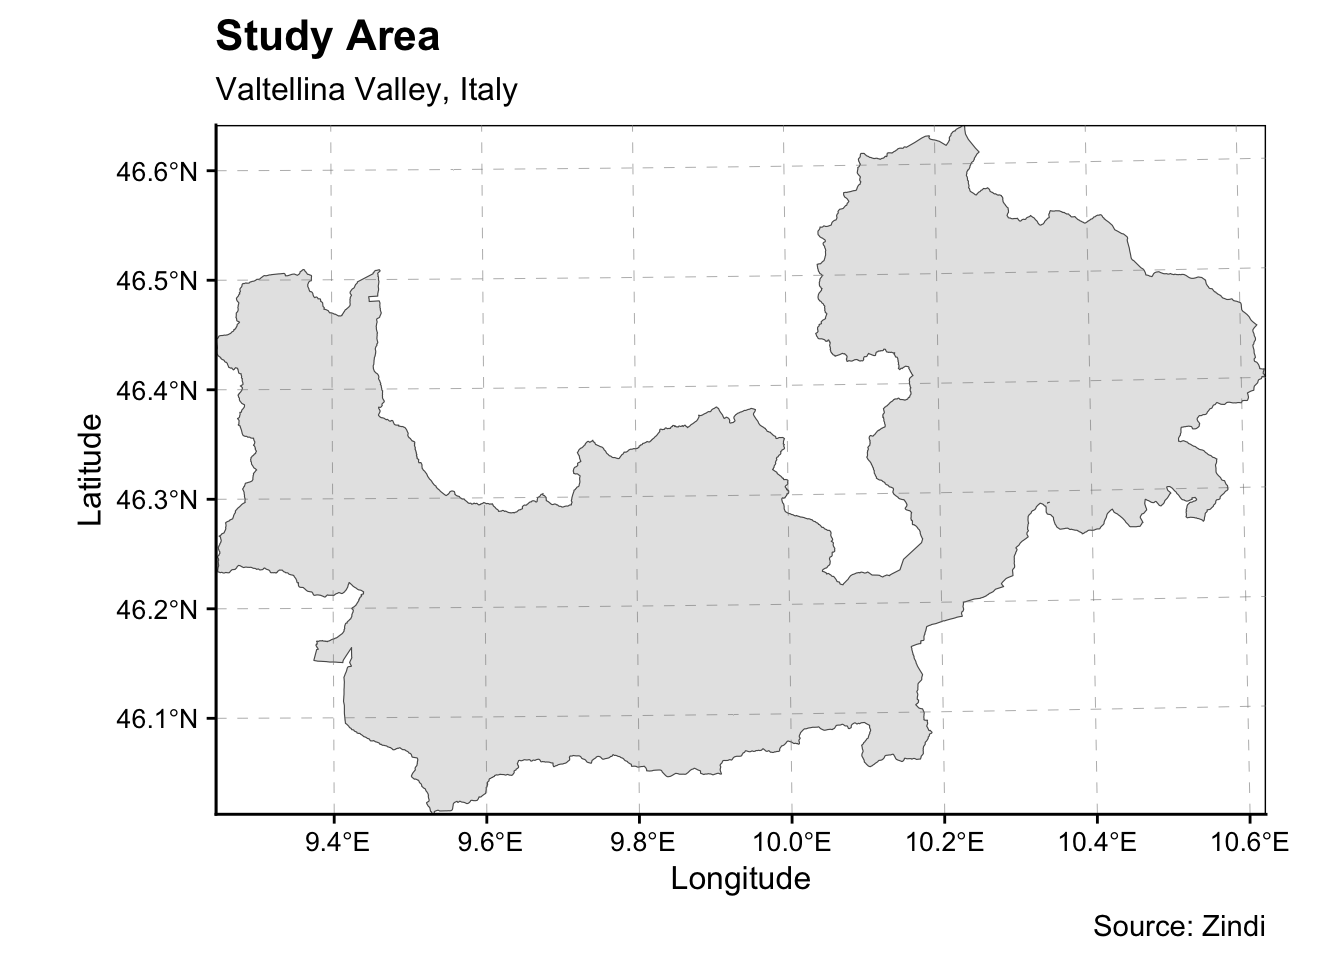
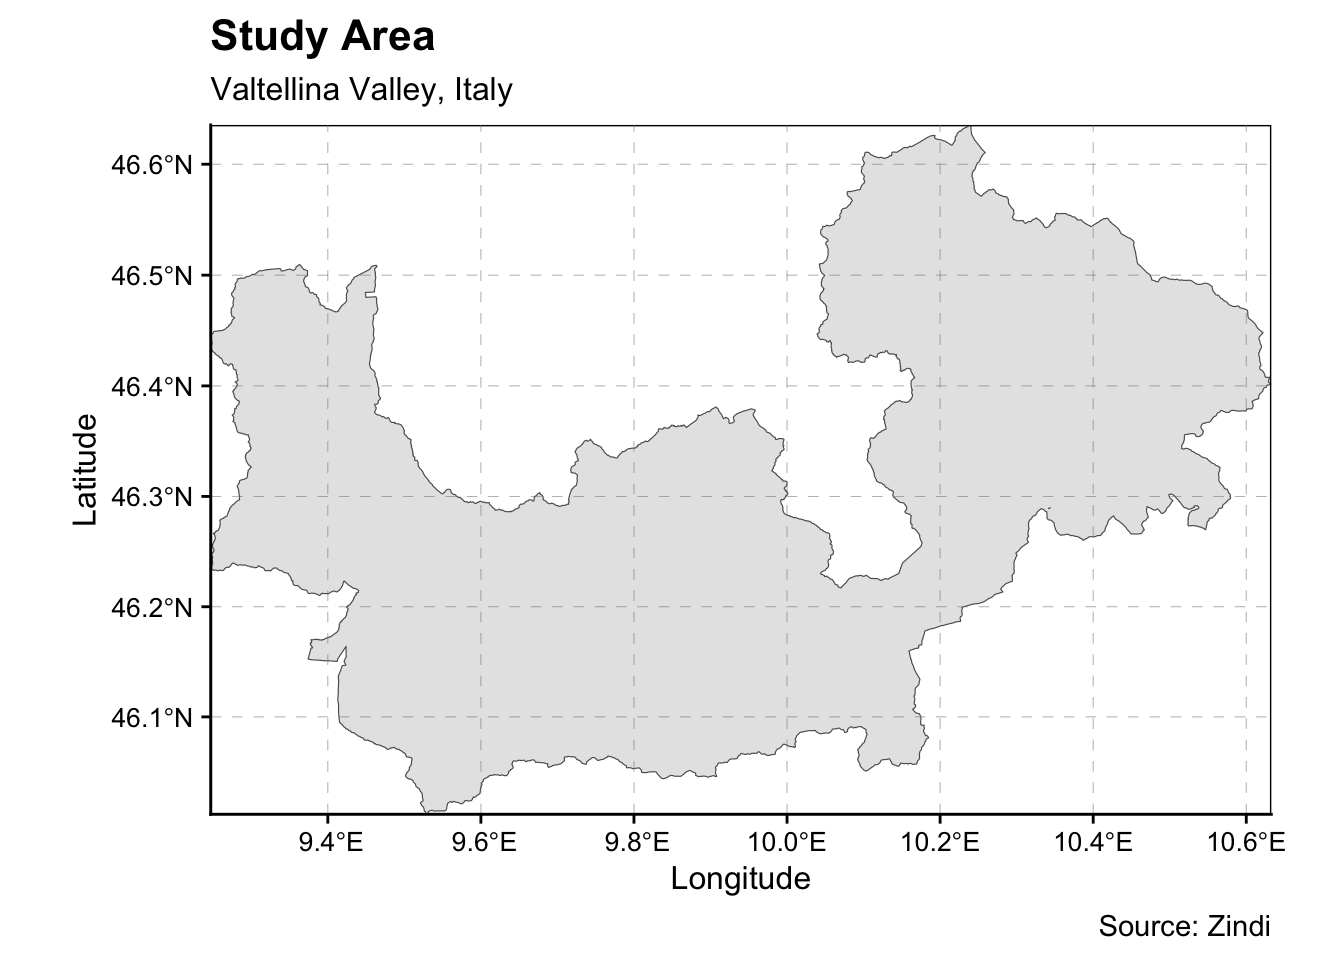
deconflicted

diff --git a/_site/project.html b/_site/project.html
@@ -200,7 +200,7 @@ pre > code.sourceCode > span > a:first-child::before { text-decoration: underlin
     <div>
     <div class="quarto-title-meta-heading">Modified</div>
     <div class="quarto-title-meta-contents">
-      <p class="date-modified">January 10, 2024</p>
+      <p class="date-modified">January 11, 2024</p>
     </div>
   </div>
     
@@ -279,24 +279,26 @@ pre > code.sourceCode > span > a:first-child::before { text-decoration: underlin
 </section>
 <p>Before creating thematic maps for each landslide parameter, a map is created to plot the study area of this project, Valtellina Valley in Italy using <code>ggplot</code> package.</p>
 <div class="cell">
-<div class="sourceCode cell-code" id="cb4"><pre class="sourceCode r code-with-copy"><code class="sourceCode r"><span id="cb4-1"><a href="#cb4-1" aria-hidden="true" tabindex="-1"></a><span class="fu">ggplot</span>(<span class="at">data =</span> valtellina) <span class="sc">+</span></span>
-<span id="cb4-2"><a href="#cb4-2" aria-hidden="true" tabindex="-1"></a>  <span class="fu">geom_sf</span>()<span class="sc">+</span></span>
-<span id="cb4-3"><a href="#cb4-3" aria-hidden="true" tabindex="-1"></a>  <span class="fu">coord_sf</span>(<span class="at">expand=</span><span class="cn">FALSE</span>)<span class="sc">+</span></span>
-<span id="cb4-4"><a href="#cb4-4" aria-hidden="true" tabindex="-1"></a>  <span class="fu">labs</span>(<span class="at">x=</span><span class="st">'Longitude'</span>,<span class="at">y=</span><span class="st">'Latitude'</span>,</span>
-<span id="cb4-5"><a href="#cb4-5" aria-hidden="true" tabindex="-1"></a>       <span class="at">title=</span><span class="st">"Study Area"</span>,</span>
-<span id="cb4-6"><a href="#cb4-6" aria-hidden="true" tabindex="-1"></a>       <span class="at">subtitle=</span><span class="st">'Valtellina Valley, Italy'</span>,</span>
-<span id="cb4-7"><a href="#cb4-7" aria-hidden="true" tabindex="-1"></a>       <span class="at">caption=</span><span class="st">'Source: Zindi'</span>) <span class="sc">+</span></span>
-<span id="cb4-8"><a href="#cb4-8" aria-hidden="true" tabindex="-1"></a>  cowplot<span class="sc">::</span><span class="fu">theme_cowplot</span>()<span class="sc">+</span></span>
-<span id="cb4-9"><a href="#cb4-9" aria-hidden="true" tabindex="-1"></a>  <span class="fu">theme</span>(<span class="at">panel.grid.major =</span> <span class="fu">element_line</span>(<span class="at">color =</span> <span class="fu">gray</span>(.<span class="dv">5</span>),</span>
-<span id="cb4-10"><a href="#cb4-10" aria-hidden="true" tabindex="-1"></a>                                        <span class="at">linetype =</span> <span class="st">'dashed'</span>,</span>
-<span id="cb4-11"><a href="#cb4-11" aria-hidden="true" tabindex="-1"></a>                                        <span class="at">linewidth =</span> <span class="fl">0.1</span>),</span>
-<span id="cb4-12"><a href="#cb4-12" aria-hidden="true" tabindex="-1"></a>        <span class="at">panel.grid.minor =</span> <span class="fu">element_blank</span>(),</span>
-<span id="cb4-13"><a href="#cb4-13" aria-hidden="true" tabindex="-1"></a>        <span class="at">panel.background =</span> <span class="fu">element_rect</span>(<span class="at">fill=</span><span class="cn">NA</span>,<span class="at">color =</span> <span class="st">'black'</span>),</span>
-<span id="cb4-14"><a href="#cb4-14" aria-hidden="true" tabindex="-1"></a>        <span class="at">panel.ontop =</span> <span class="cn">TRUE</span>,</span>
-<span id="cb4-15"><a href="#cb4-15" aria-hidden="true" tabindex="-1"></a>        <span class="at">axis.title.x =</span> <span class="fu">element_text</span>(<span class="at">size =</span> <span class="dv">12</span>), </span>
-<span id="cb4-16"><a href="#cb4-16" aria-hidden="true" tabindex="-1"></a>        <span class="at">axis.title.y =</span> <span class="fu">element_text</span>(<span class="at">size =</span> <span class="dv">12</span>),</span>
-<span id="cb4-17"><a href="#cb4-17" aria-hidden="true" tabindex="-1"></a>        <span class="at">axis.text.x =</span> <span class="fu">element_text</span>(<span class="at">size =</span> <span class="dv">10</span>),</span>
-<span id="cb4-18"><a href="#cb4-18" aria-hidden="true" tabindex="-1"></a>        <span class="at">axis.text.y =</span> <span class="fu">element_text</span>(<span class="at">size =</span> <span class="dv">10</span>))</span></code><button title="Copy to Clipboard" class="code-copy-button"><i class="bi"></i></button></pre></div>
+<div class="sourceCode cell-code" id="cb4"><pre class="sourceCode r code-with-copy"><code class="sourceCode r"><span id="cb4-1"><a href="#cb4-1" aria-hidden="true" tabindex="-1"></a>valtellina_transformed <span class="ot">&lt;-</span> <span class="fu">st_transform</span>(valtellina, <span class="at">crs =</span> <span class="st">"+proj=merc"</span>)</span>
+<span id="cb4-2"><a href="#cb4-2" aria-hidden="true" tabindex="-1"></a></span>
+<span id="cb4-3"><a href="#cb4-3" aria-hidden="true" tabindex="-1"></a><span class="fu">ggplot</span>(<span class="at">data =</span> valtellina_transformed) <span class="sc">+</span></span>
+<span id="cb4-4"><a href="#cb4-4" aria-hidden="true" tabindex="-1"></a>  <span class="fu">geom_sf</span>()<span class="sc">+</span></span>
+<span id="cb4-5"><a href="#cb4-5" aria-hidden="true" tabindex="-1"></a>  <span class="fu">coord_sf</span>(<span class="at">expand=</span><span class="cn">FALSE</span>)<span class="sc">+</span></span>
+<span id="cb4-6"><a href="#cb4-6" aria-hidden="true" tabindex="-1"></a>  <span class="fu">labs</span>(<span class="at">x=</span><span class="st">'Longitude'</span>,<span class="at">y=</span><span class="st">'Latitude'</span>,</span>
+<span id="cb4-7"><a href="#cb4-7" aria-hidden="true" tabindex="-1"></a>       <span class="at">title=</span><span class="st">"Study Area"</span>,</span>
+<span id="cb4-8"><a href="#cb4-8" aria-hidden="true" tabindex="-1"></a>       <span class="at">subtitle=</span><span class="st">'Valtellina Valley, Italy'</span>,</span>
+<span id="cb4-9"><a href="#cb4-9" aria-hidden="true" tabindex="-1"></a>       <span class="at">caption=</span><span class="st">'Source: Zindi'</span>) <span class="sc">+</span></span>
+<span id="cb4-10"><a href="#cb4-10" aria-hidden="true" tabindex="-1"></a>  cowplot<span class="sc">::</span><span class="fu">theme_cowplot</span>()<span class="sc">+</span></span>
+<span id="cb4-11"><a href="#cb4-11" aria-hidden="true" tabindex="-1"></a>  <span class="fu">theme</span>(<span class="at">panel.grid.major =</span> <span class="fu">element_line</span>(<span class="at">color =</span> <span class="fu">gray</span>(.<span class="dv">5</span>),</span>
+<span id="cb4-12"><a href="#cb4-12" aria-hidden="true" tabindex="-1"></a>                                        <span class="at">linetype =</span> <span class="st">'dashed'</span>,</span>
+<span id="cb4-13"><a href="#cb4-13" aria-hidden="true" tabindex="-1"></a>                                        <span class="at">linewidth =</span> <span class="fl">0.1</span>),</span>
+<span id="cb4-14"><a href="#cb4-14" aria-hidden="true" tabindex="-1"></a>        <span class="at">panel.grid.minor =</span> <span class="fu">element_blank</span>(),</span>
+<span id="cb4-15"><a href="#cb4-15" aria-hidden="true" tabindex="-1"></a>        <span class="at">panel.background =</span> <span class="fu">element_rect</span>(<span class="at">fill=</span><span class="cn">NA</span>,<span class="at">color =</span> <span class="st">'black'</span>),</span>
+<span id="cb4-16"><a href="#cb4-16" aria-hidden="true" tabindex="-1"></a>        <span class="at">panel.ontop =</span> <span class="cn">TRUE</span>,</span>
+<span id="cb4-17"><a href="#cb4-17" aria-hidden="true" tabindex="-1"></a>        <span class="at">axis.title.x =</span> <span class="fu">element_text</span>(<span class="at">size =</span> <span class="dv">12</span>), </span>
+<span id="cb4-18"><a href="#cb4-18" aria-hidden="true" tabindex="-1"></a>        <span class="at">axis.title.y =</span> <span class="fu">element_text</span>(<span class="at">size =</span> <span class="dv">12</span>),</span>
+<span id="cb4-19"><a href="#cb4-19" aria-hidden="true" tabindex="-1"></a>        <span class="at">axis.text.x =</span> <span class="fu">element_text</span>(<span class="at">size =</span> <span class="dv">10</span>),</span>
+<span id="cb4-20"><a href="#cb4-20" aria-hidden="true" tabindex="-1"></a>        <span class="at">axis.text.y =</span> <span class="fu">element_text</span>(<span class="at">size =</span> <span class="dv">10</span>))</span></code><button title="Copy to Clipboard" class="code-copy-button"><i class="bi"></i></button></pre></div>
 <div class="cell-output-display">
 <p><img src="project_files/figure-html/unnamed-chunk-4-1.png" class="img-fluid" width="672"></p>
 </div>
@@ -306,8 +308,7 @@ pre > code.sourceCode > span > a:first-child::before { text-decoration: underlin
 </section>
 <p>Map projection is an important property of a geospatial data. In order to perform geoprocessing using geospatial data, we need to ensure that data are projected using the appropriate and standard coordinate system. For this project, we use EPSG:32632 (WGS 84 / UTM zone 32N) for all the datasets.</p>
 <div class="cell" data-code_folding="false">
-<div class="sourceCode cell-code" id="cb5"><pre class="sourceCode r code-with-copy"><code class="sourceCode r"><span id="cb5-1"><a href="#cb5-1" aria-hidden="true" tabindex="-1"></a>valtellina <span class="ot">&lt;-</span> <span class="fu">st_set_crs</span>(valtellina,<span class="dv">32632</span>)</span>
-<span id="cb5-2"><a href="#cb5-2" aria-hidden="true" tabindex="-1"></a>precipitation <span class="ot">&lt;-</span> <span class="fu">projectRaster</span>(precipitation, <span class="at">crs =</span> <span class="fu">crs</span>(valtellina))</span></code><button title="Copy to Clipboard" class="code-copy-button"><i class="bi"></i></button></pre></div>
+<div class="sourceCode cell-code" id="cb5"><pre class="sourceCode r code-with-copy"><code class="sourceCode r"><span id="cb5-1"><a href="#cb5-1" aria-hidden="true" tabindex="-1"></a>precipitation <span class="ot">&lt;-</span> <span class="fu">projectRaster</span>(precipitation, <span class="at">crs =</span> <span class="st">"+proj=merc"</span>)</span></code><button title="Copy to Clipboard" class="code-copy-button"><i class="bi"></i></button></pre></div>
 </div>
 <section id="create-database" class="level2" style="color: #603494;">
 <h2 style="color: #603494;" class="anchored" data-anchor-id="create-database">5.0 Create Database</h2>
@@ -317,13 +318,13 @@ pre > code.sourceCode > span > a:first-child::before { text-decoration: underlin
 <div class="sourceCode cell-code" id="cb6"><pre class="sourceCode r code-with-copy"><code class="sourceCode r"><span id="cb6-1"><a href="#cb6-1" aria-hidden="true" tabindex="-1"></a>precipitation_df <span class="ot">&lt;-</span> <span class="fu">as.data.frame</span>(precipitation,<span class="at">xy=</span><span class="cn">TRUE</span>)<span class="sc">%&gt;%</span><span class="fu">drop_na</span>()</span>
 <span id="cb6-2"><a href="#cb6-2" aria-hidden="true" tabindex="-1"></a><span class="fu">tail</span>(precipitation_df)</span></code><button title="Copy to Clipboard" class="code-copy-button"><i class="bi"></i></button></pre></div>
 <div class="cell-output cell-output-stdout">
-<pre><code>               x       y avgprecipitation_mm
-4737030 540976.3 5095477           0.2868658
-4737031 541002.7 5095477           0.2868658
-4737032 541029.1 5095477           0.2868658
-4737033 541055.5 5095477           0.2868658
-4737034 541081.9 5095477           0.2868658
-4737035 541108.3 5095477           0.2868658</code></pre>
+<pre><code>              x       y avgprecipitation_mm
+4726314 1060805 5751444           0.2868658
+4726315 1060843 5751444           0.2868658
+4726316 1060881 5751444           0.2868658
+4726317 1060919 5751444           0.2868658
+4726318 1060958 5751444           0.2868658
+4726319 1060996 5751444           0.2868658</code></pre>
 </div>
 <div class="sourceCode cell-code" id="cb8"><pre class="sourceCode r code-with-copy"><code class="sourceCode r"><span id="cb8-1"><a href="#cb8-1" aria-hidden="true" tabindex="-1"></a>elevation_df <span class="ot">&lt;-</span> <span class="fu">as.data.frame</span>(elevation,<span class="at">xy=</span><span class="cn">TRUE</span>)<span class="sc">%&gt;%</span><span class="fu">drop_na</span>()</span>
 <span id="cb8-2"><a href="#cb8-2" aria-hidden="true" tabindex="-1"></a>twi_df <span class="ot">&lt;-</span> <span class="fu">as.data.frame</span>(twi,<span class="at">xy=</span><span class="cn">TRUE</span>)<span class="sc">%&gt;%</span><span class="fu">drop_na</span>()</span>
@@ -344,7 +345,7 @@ pre > code.sourceCode > span > a:first-child::before { text-decoration: underlin
 <div class="cell" data-code_folding="false">
 <div class="sourceCode cell-code" id="cb9"><pre class="sourceCode r code-with-copy"><code class="sourceCode r"><span id="cb9-1"><a href="#cb9-1" aria-hidden="true" tabindex="-1"></a><span class="fu">ggplot</span>()<span class="sc">+</span></span>
 <span id="cb9-2"><a href="#cb9-2" aria-hidden="true" tabindex="-1"></a>  <span class="fu">geom_raster</span>(<span class="fu">aes</span>(<span class="at">x=</span>x,<span class="at">y=</span>y,<span class="at">fill=</span>avgprecipitation_mm),<span class="at">data=</span>precipitation_df)<span class="sc">+</span></span>
-<span id="cb9-3"><a href="#cb9-3" aria-hidden="true" tabindex="-1"></a>  <span class="fu">geom_sf</span>(<span class="at">fill=</span><span class="st">'transparent'</span>,<span class="at">data=</span>valtellina)<span class="sc">+</span></span>
+<span id="cb9-3"><a href="#cb9-3" aria-hidden="true" tabindex="-1"></a>  <span class="fu">geom_sf</span>(<span class="at">fill=</span><span class="st">'transparent'</span>,<span class="at">data=</span>valtellina_transformed)<span class="sc">+</span></span>
 <span id="cb9-4"><a href="#cb9-4" aria-hidden="true" tabindex="-1"></a>  <span class="fu">scale_fill_gradientn</span>(<span class="st">'avg precipitation </span><span class="sc">\n</span><span class="st">(mm)'</span>, <span class="at">colours=</span><span class="fu">c</span>(<span class="st">"#eff635"</span>,<span class="st">"#e4c838"</span>,<span class="st">"#99bf3e"</span>,<span class="st">"#61adab"</span>,<span class="st">"#5071ea"</span>,<span class="st">"#4225df"</span>,<span class="st">"#3310a2"</span>))<span class="sc">+</span></span>
 <span id="cb9-5"><a href="#cb9-5" aria-hidden="true" tabindex="-1"></a>  <span class="fu">coord_sf</span>(<span class="at">expand=</span><span class="cn">FALSE</span>)<span class="sc">+</span></span>
 <span id="cb9-6"><a href="#cb9-6" aria-hidden="true" tabindex="-1"></a>  <span class="fu">labs</span>(<span class="at">x=</span><span class="st">'Longitude'</span>,<span class="at">y=</span><span class="st">'Latitude'</span>,</span>

diff --git a/_site/research.html b/_site/research.html
@@ -136,6 +136,7 @@ ul.task-list li input[type="checkbox"] {
 
 </header>
 
+<p>This paper is focusing on landslide susceptibility models.</p>
 
 
 
